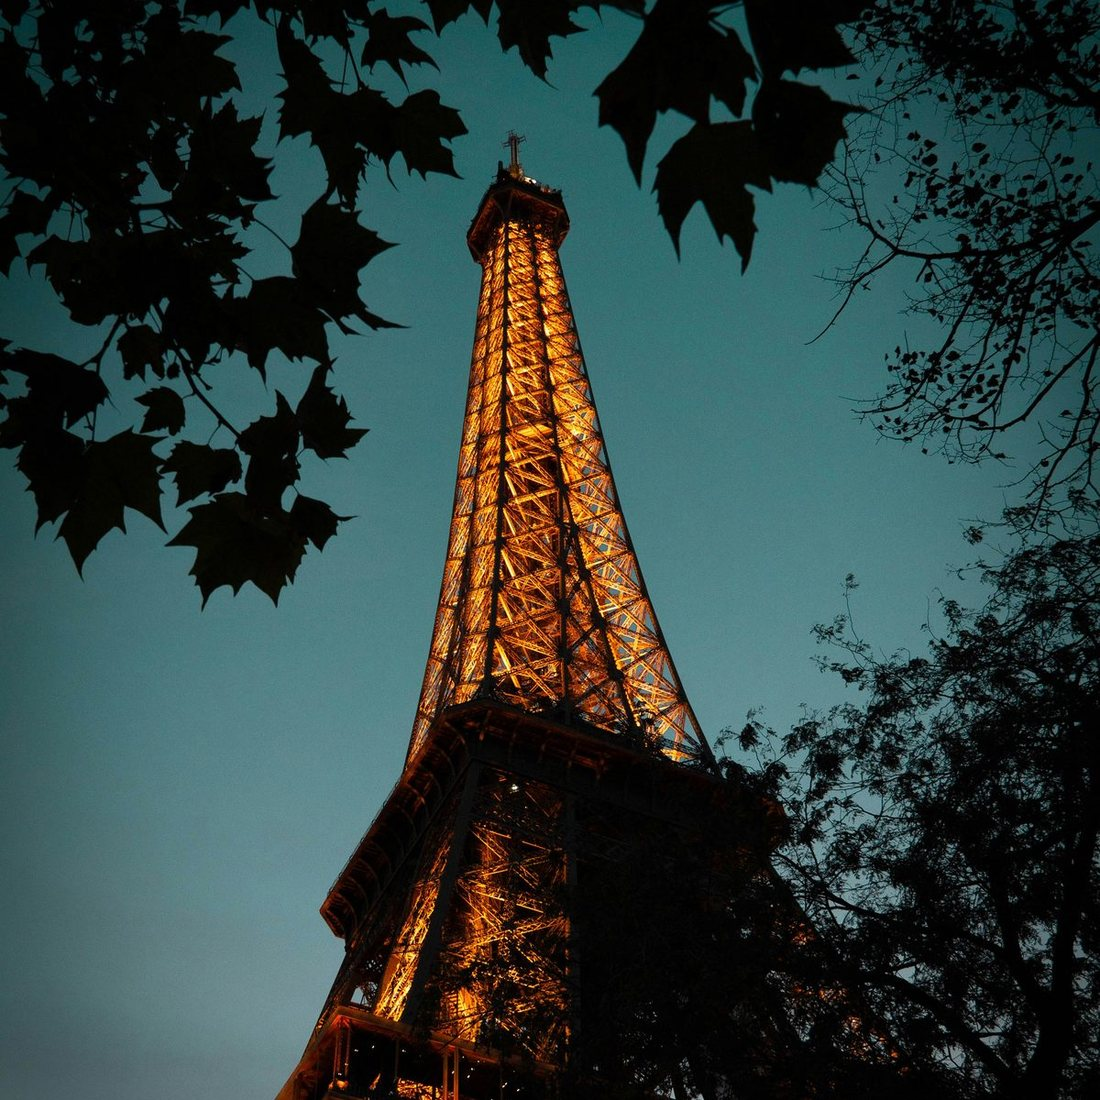
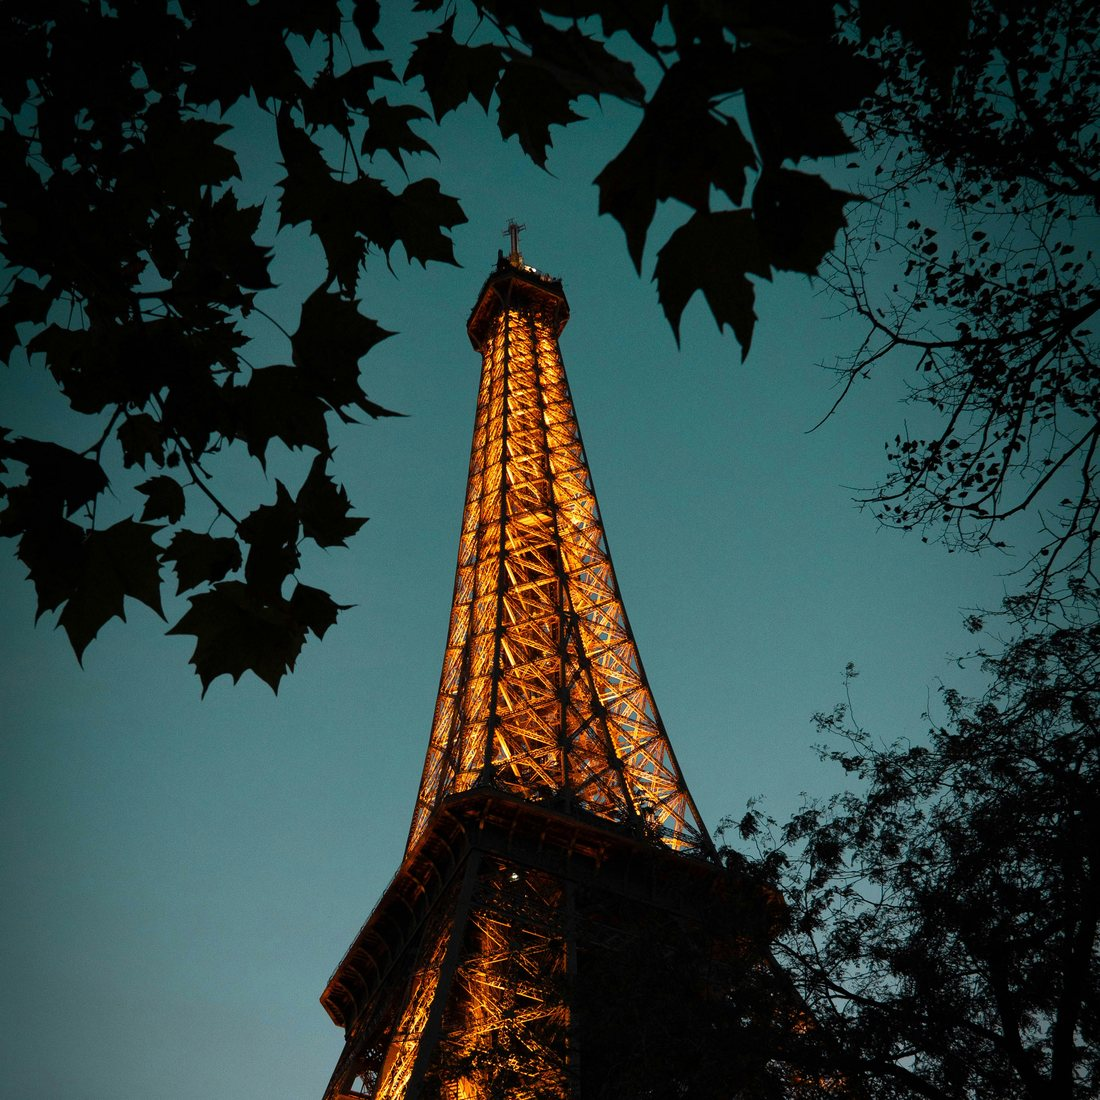
Add admin attention badges to dashboard, re-crop destination photos, expand concierge AI knowledge
- Inbox/Beheer nav items now show a small badge when there's a new member
  message or request, polled every 45s, so staff aren't dependent on email
  (which was landing in spam) to notice new activity.
- Re-cropped destination photos with a smarter vertical anchor so towers/
  skylines aren't cut off in the square crop.
- Concierge AI now answers general lifestyle/travel questions (e.g. "what's
  good in Ibiza") with real recommendations instead of deferring everything
  to the human team.

diff --git a/dashboard.html b/dashboard.html
@@ -476,7 +476,7 @@
       <a data-view="rewards" id="navRewards"><svg viewBox="0 0 24 24" fill="none" stroke="currentColor" stroke-width="1.6"><path d="M12 3l2.4 5.3 5.6.6-4.2 3.9 1.2 5.6-4.6-2.9-4.6 2.9 1.2-5.6-4.2-3.9 5.6-.6z"/></svg><span data-i18n="dash.nav.rewards">Beloningen</span><span class="nav-beta" id="navRewardsBadge">BETA</span></a>
       <a data-view="inbox" id="navInbox" hidden><svg viewBox="0 0 24 24" fill="none" stroke="currentColor" stroke-width="1.6"><path d="M3 8l9 6 9-6M4 5h16a1 1 0 0 1 1 1v12a1 1 0 0 1-1 1H4a1 1 0 0 1-1-1V6a1 1 0 0 1 1-1z"/></svg><span>Inbox</span><span class="nav-badge" id="inboxBadge" hidden></span></a>
       <a data-view="playbook" id="navPlaybook" hidden><svg viewBox="0 0 24 24" fill="none" stroke="currentColor" stroke-width="1.6"><path d="M12 3l2.4 5.3 5.6.6-4.2 3.9 1.2 5.6-4.6-2.9-4.6 2.9 1.2-5.6-4.2-3.9 5.6-.6z"/></svg><span>Playbook</span></a>
-      <a data-view="bookings" id="navBookings" hidden><svg viewBox="0 0 24 24" fill="none" stroke="currentColor" stroke-width="1.6"><rect x="3" y="5" width="18" height="16" rx="2"/><path d="M8 3v4M16 3v4M3 10h18"/></svg><span>Bookings</span></a>
+      <a data-view="bookings" id="navBookings" hidden><svg viewBox="0 0 24 24" fill="none" stroke="currentColor" stroke-width="1.6"><rect x="3" y="5" width="18" height="16" rx="2"/><path d="M8 3v4M16 3v4M3 10h18"/></svg><span>Beheer</span><span class="nav-badge" id="beheerBadge" hidden></span></a>
     </nav>
 
     <div class="dash-side-foot">
@@ -680,20 +680,20 @@
     <section class="dash-view" data-view="bookings" hidden>
       <div class="dash-welcome">
         <div>
-          <p class="eyebrow">BEVESTIGDE BOEKINGEN</p>
-          <h1>Details voor het lid.</h1>
+          <p class="eyebrow">AANVRAGEN BEHEREN</p>
+          <h1>Bevestig, wijzig, vul details in.</h1>
         </div>
       </div>
 
       <section class="dash-panel playbook-panel">
         <div class="dash-panel-head">
           <div>
-            <h2>Bevestigde aanvragen</h2>
-            <p class="dash-panel-sub">Vul aankomst, locatie en dresscode in zodra dit bekend is. Het lid ziet dit direct in de app zodra u opslaat.</p>
+            <h2>Openstaande aanvragen</h2>
+            <p class="dash-panel-sub">Wijzig de status om het lid direct bij te werken. Bij "Bevestigd" krijgt het lid automatisch een pushmelding, en kunt u aankomst/locatie/dresscode invullen.</p>
           </div>
         </div>
         <div id="bookingsList">
-          <p class="inbox-empty" id="bookingsEmpty">Geen bevestigde aanvragen.</p>
+          <p class="inbox-empty" id="bookingsEmpty">Geen openstaande aanvragen.</p>
         </div>
       </section>
     </section>
@@ -1056,9 +1056,41 @@
     views.forEach((v) => { v.hidden = v.dataset.view !== name; });
     navLinks.forEach((a) => a.classList.toggle('is-active', a.dataset.view === name));
     if (name === 'requests') markRequestsSeen();
-    if (name === 'inbox') loadInboxMembers();
+    if (name === 'inbox') { loadInboxMembers(); markAdminInboxSeen(); }
     if (name === 'playbook') loadPlaybook();
-    if (name === 'bookings') loadBookings();
+    if (name === 'bookings') { loadBookings(); markAdminBookingsSeen(); }
+  }
+
+  // --- Admin attention badges: since staff email notifications land in
+  // spam and get missed, the dashboard itself tracks "last checked" per
+  // admin (in localStorage, since there's currently one admin browser)
+  // and shows a badge whenever something newer than that exists.
+  function markAdminInboxSeen() {
+    localStorage.setItem('solace_admin_seen_inbox', new Date().toISOString());
+    document.getElementById('inboxBadge').hidden = true;
+  }
+  function markAdminBookingsSeen() {
+    localStorage.setItem('solace_admin_seen_bookings', new Date().toISOString());
+    document.getElementById('beheerBadge').hidden = true;
+  }
+
+  async function checkAdminNotifications() {
+    const seenInbox = localStorage.getItem('solace_admin_seen_inbox') || '1970-01-01';
+    const seenBookings = localStorage.getItem('solace_admin_seen_bookings') || '1970-01-01';
+
+    const { count: newMessages } = await supabase
+      .from('concierge_messages')
+      .select('id', { count: 'exact', head: true })
+      .eq('role', 'user')
+      .gt('created_at', seenInbox);
+    document.getElementById('inboxBadge').hidden = !newMessages;
+
+    const { count: newRequests } = await supabase
+      .from('requests')
+      .select('id', { count: 'exact', head: true })
+      .eq('status', 'review')
+      .gt('created_at', seenBookings);
+    document.getElementById('beheerBadge').hidden = !newRequests;
   }
 
   // --- Inbox (admin only): see every member's concierge conversation and
@@ -1146,11 +1178,11 @@
     openInboxThread(inboxSelectedMemberId, document.getElementById('inboxThreadName').textContent);
   });
 
-  async function notifyMemberPush(memberId, messageText) {
+  async function notifyMemberPush(memberId, messageText, title) {
     const { data: p } = await supabase.from('profiles').select('push_token').eq('id', memberId).single();
     if (!p?.push_token) return;
     await supabase.functions.invoke('send-push', {
-      body: { push_token: p.push_token, title: 'Solace Team', body: messageText },
+      body: { push_token: p.push_token, title: title || 'Solace Team', body: messageText },
     });
   }
 
@@ -1220,11 +1252,18 @@
   // --- Bookings (admin only): fill in arrival/venue/dress code for a
   // confirmed request so the app can show a "Tonight's Setup"-style
   // overview to the member.
+  const BOOKING_STATUSES = [
+    { value: 'review', label: 'In review' },
+    { value: 'confirmed', label: 'Bevestigd' },
+    { value: 'done', label: 'Afgerond' },
+    { value: 'cancelled', label: 'Geannuleerd' },
+  ];
+
   async function loadBookings() {
     const { data: rows, error } = await supabase
       .from('requests')
-      .select('id, service, arrival_info, venue_info, dress_code, created_at, profiles!inner(full_name)')
-      .eq('status', 'confirmed')
+      .select('id, service, status, member_id, arrival_info, venue_info, dress_code, created_at, profiles!inner(full_name)')
+      .in('status', ['review', 'confirmed'])
       .order('created_at', { ascending: false });
 
     const listEl = document.getElementById('bookingsList');
@@ -1240,10 +1279,14 @@
     for (const r of rows) {
       const row = document.createElement('div');
       row.className = 'playbook-item';
+      const statusOptions = BOOKING_STATUSES.map(
+        (s) => `<option value="${s.value}" ${s.value === r.status ? 'selected' : ''}>${s.label}</option>`
+      ).join('');
       row.innerHTML = `
         <div style="flex:1">
           <div class="playbook-item-title">${escapeHtml(r.profiles?.full_name || 'Onbekend lid')} &middot; ${escapeHtml(r.service)}</div>
-          <div class="field" style="margin-top:8px"><label>Aankomst</label><input type="text" data-field="arrival_info" value="${escapeHtml(r.arrival_info || '')}" placeholder="bv. Black Car, 19:30"></div>
+          <div class="field" style="margin-top:8px"><label>Status</label><select data-field="status">${statusOptions}</select></div>
+          <div class="field"><label>Aankomst</label><input type="text" data-field="arrival_info" value="${escapeHtml(r.arrival_info || '')}" placeholder="bv. Black Car, 19:30"></div>
           <div class="field"><label>Locatie</label><input type="text" data-field="venue_info" value="${escapeHtml(r.venue_info || '')}" placeholder="bv. Nobu Amsterdam, VIP tafel"></div>
           <div class="field"><label>Dresscode</label><input type="text" data-field="dress_code" value="${escapeHtml(r.dress_code || '')}" placeholder="bv. Smart Casual"></div>
           <button type="button" class="btn btn-primary btn-small" data-action="save-booking">Opslaan</button>
@@ -1251,14 +1294,23 @@
       `;
       row.querySelector('[data-action="save-booking"]').addEventListener('click', async (e) => {
         const wrap = e.target.closest('.playbook-item');
+        const newStatus = wrap.querySelector('[data-field="status"]').value;
         const update = {
+          status: newStatus,
           arrival_info: wrap.querySelector('[data-field="arrival_info"]').value.trim() || null,
           venue_info: wrap.querySelector('[data-field="venue_info"]').value.trim() || null,
           dress_code: wrap.querySelector('[data-field="dress_code"]').value.trim() || null,
         };
         await supabase.from('requests').update(update).eq('id', r.id);
+        if (newStatus === 'confirmed' && r.status !== 'confirmed') {
+          notifyMemberPush(r.member_id, `Uw aanvraag is bevestigd: ${r.service}`, 'Solace Executive');
+        }
+        if (newStatus === 'done' && r.status !== 'done') {
+          notifyMemberPush(r.member_id, `Uw aanvraag is afgerond: ${r.service}. U heeft 150 punten verdiend.`, 'Solace Executive');
+        }
         e.target.textContent = 'Opgeslagen';
         setTimeout(() => { e.target.textContent = 'Opslaan'; }, 1500);
+        loadBookings();
       });
       listEl.appendChild(row);
     }
@@ -1488,6 +1540,8 @@
       document.getElementById('navInbox').hidden = false;
       document.getElementById('navPlaybook').hidden = false;
       document.getElementById('navBookings').hidden = false;
+      checkAdminNotifications();
+      setInterval(checkAdminNotifications, 45000);
     }
 
     memberName = profile?.full_name || '';

diff --git a/supabase/functions/concierge-chat/index.ts b/supabase/functions/concierge-chat/index.ts
@@ -49,7 +49,9 @@ Your main job in this chat is to understand exactly what a member needs before t
 - Budget range, if the member is willing to share one — never pressure for it
 - Any specific preferences (aircraft type, catering, occasion, exact item/brand/model, etc.)
 
-Once you have a clear picture, briefly summarize it back to the member, then call the log_request tool to hand it to the team. Tell the member the team will follow up by email, typically within 24 hours. If the member signals real time pressure (words like "morgen", "spoed", "zo snel mogelijk", "urgent", "today", "tomorrow"), set urgent to true on that tool call.
+Once you have a clear picture, briefly summarize it back to the member and explicitly ask if you should submit it to the team (e.g. "Zal ik dit voor u indienen bij het team?" / "Should I submit this to the team?"). Only call the log_request tool after the member clearly confirms yes. Not every message is a request: a member asking a general question (e.g. "what's the weather in Saint-Tropez", "do you also do yacht charters", "how does the referral program work") is just asking for information, not asking you to log anything, so answer it directly and do not call log_request unless they go on to actually ask you to arrange or find something and then confirm. This matters because every log_request creates real work for the human team, so never log one speculatively or without explicit confirmation. Once confirmed, tell the member the team will follow up by email, typically within 24 hours. If the member signals real time pressure (words like "morgen", "spoed", "zo snel mogelijk", "urgent", "today", "tomorrow"), set urgent to true on that tool call.
+
+Members will also ask you things that are not a request at all, like "what's good to do in Ibiza", "where should I eat in Amsterdam this weekend", or "is it worth going to Saint-Tropez in September". Answer these as a genuinely well-travelled, well-connected concierge would: give real, specific, useful suggestions (actual areas, restaurants, beach clubs, timing advice) drawn from your own knowledge, not a vague "I'll have to check". Feel free to end with a natural opening to help further, like offering to book a table or arrange transport there, but only log a request if they take you up on it and confirm. Being genuinely useful here, not just deferring everything to "the team", is what makes the concierge feel like an insider rather than a form.
 
 You can also help with:
 - Checking the status of a member's existing requests, with check_request_status, whenever they ask.
